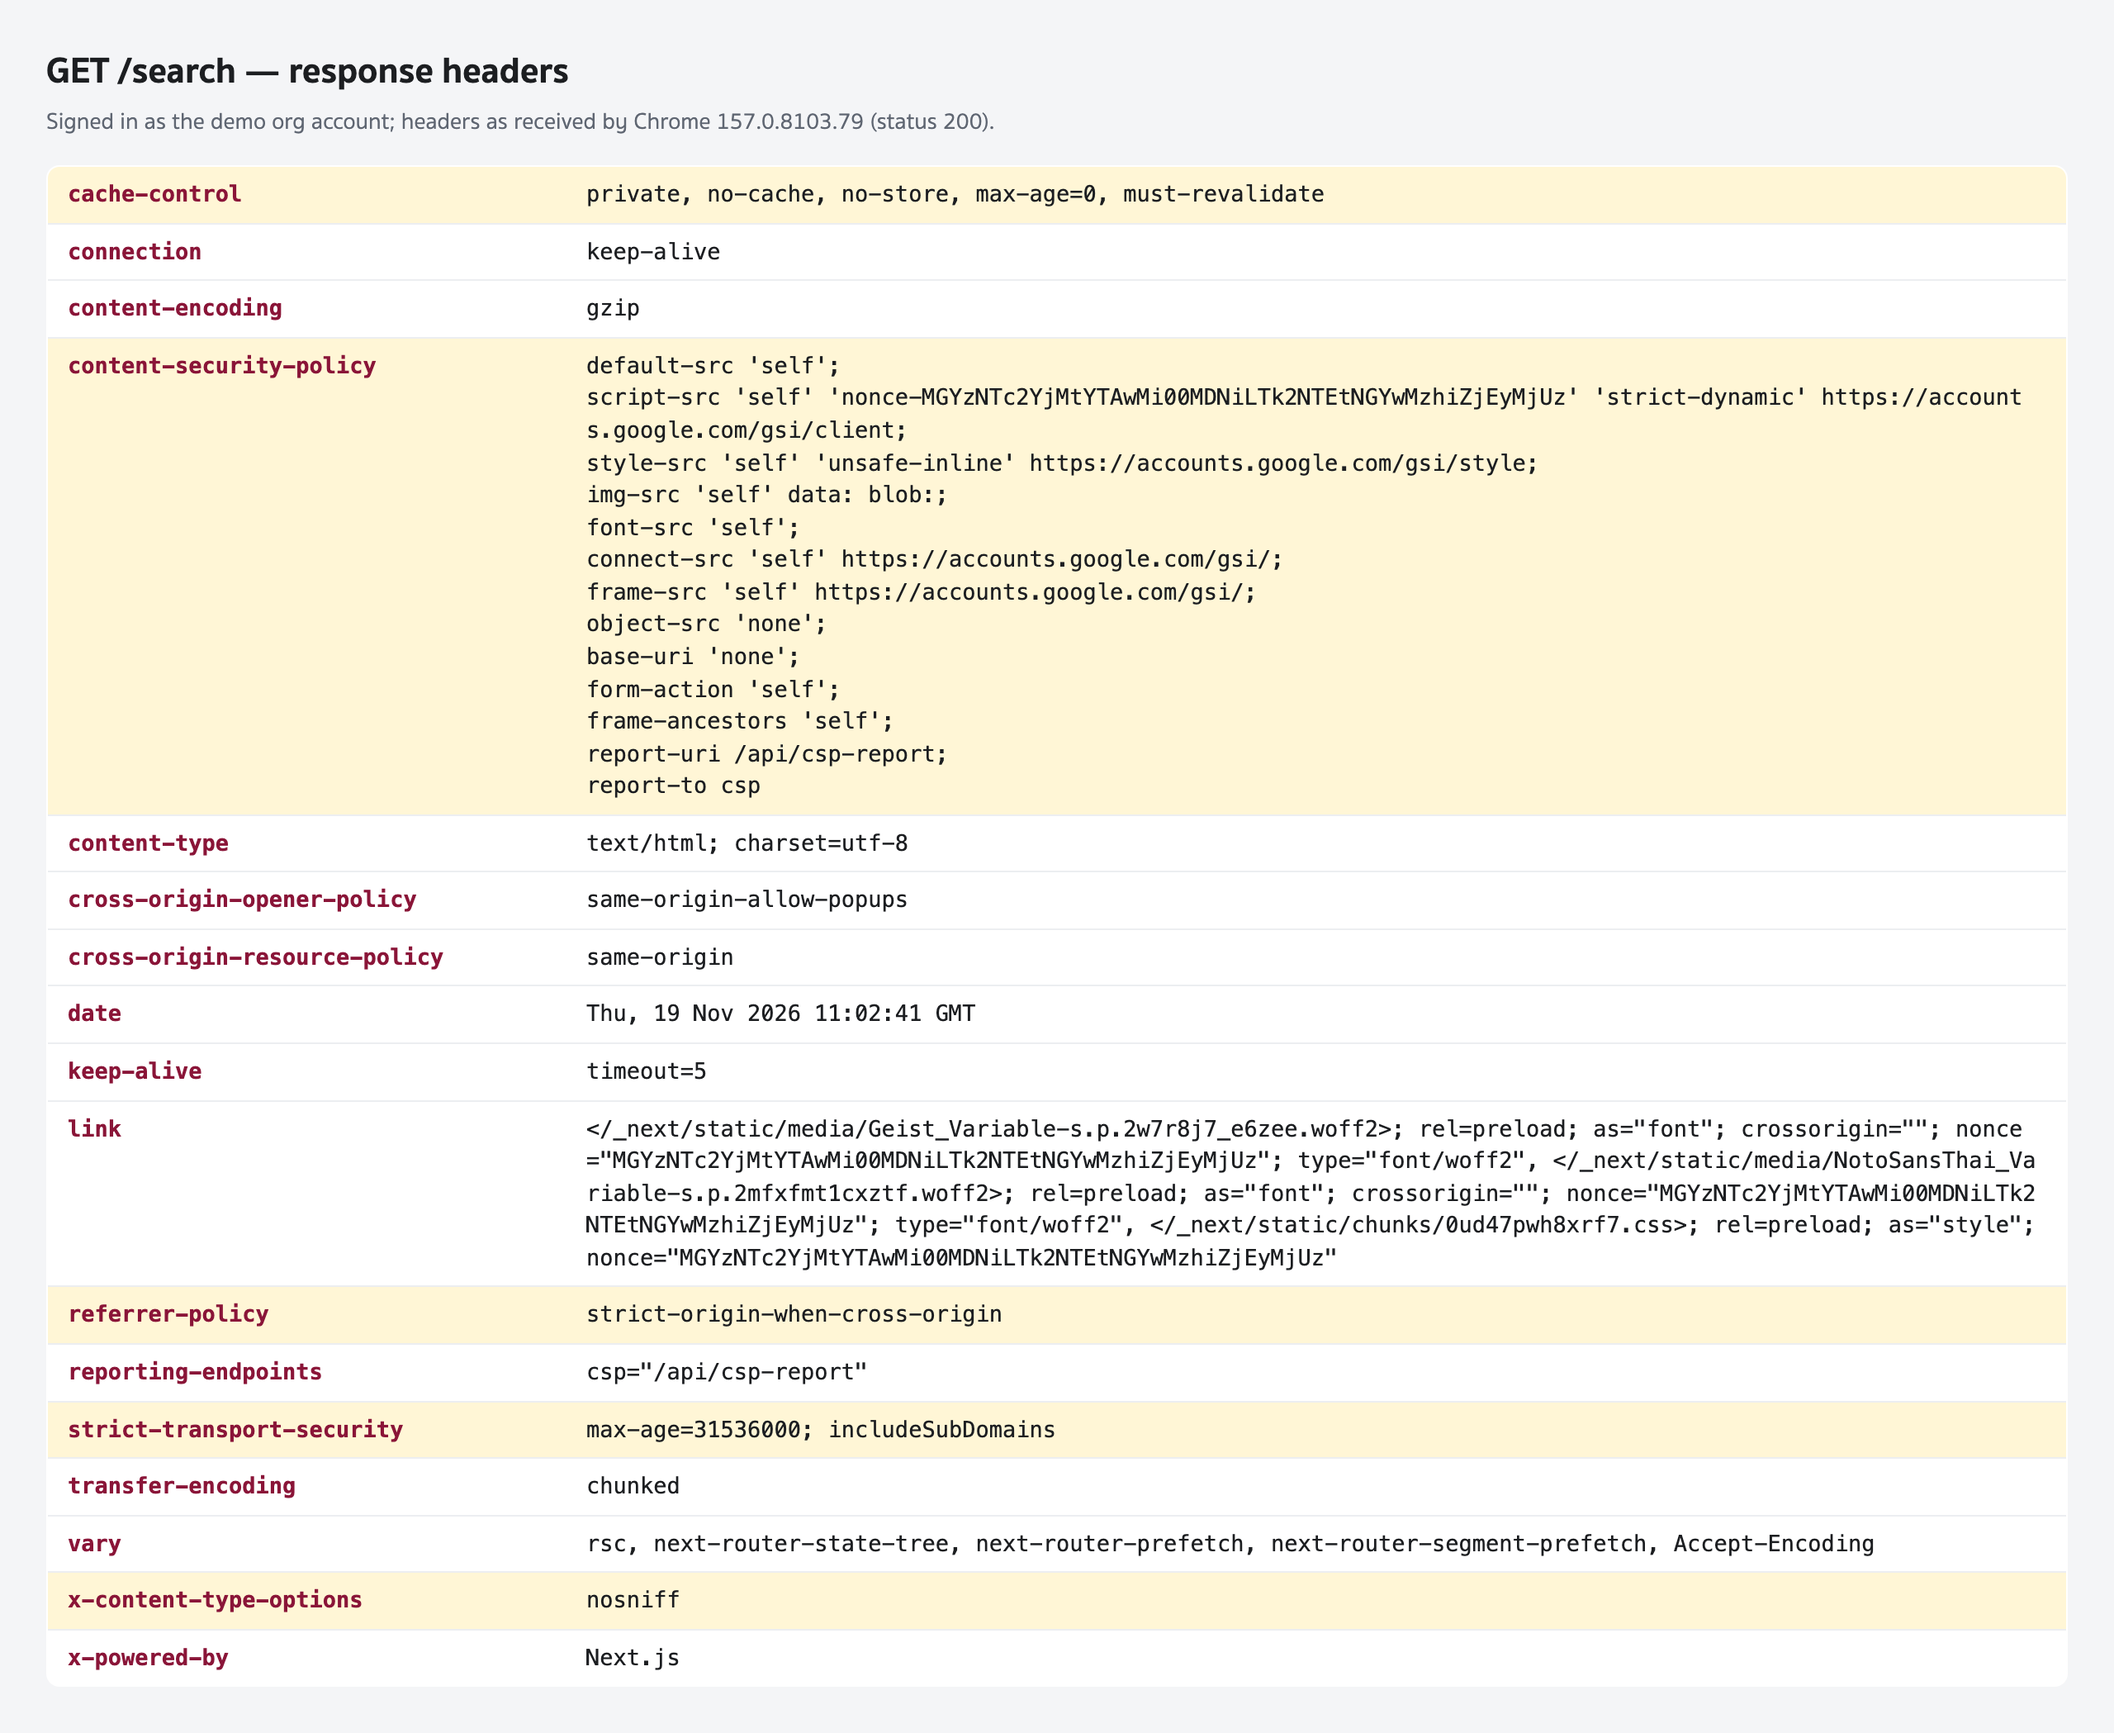
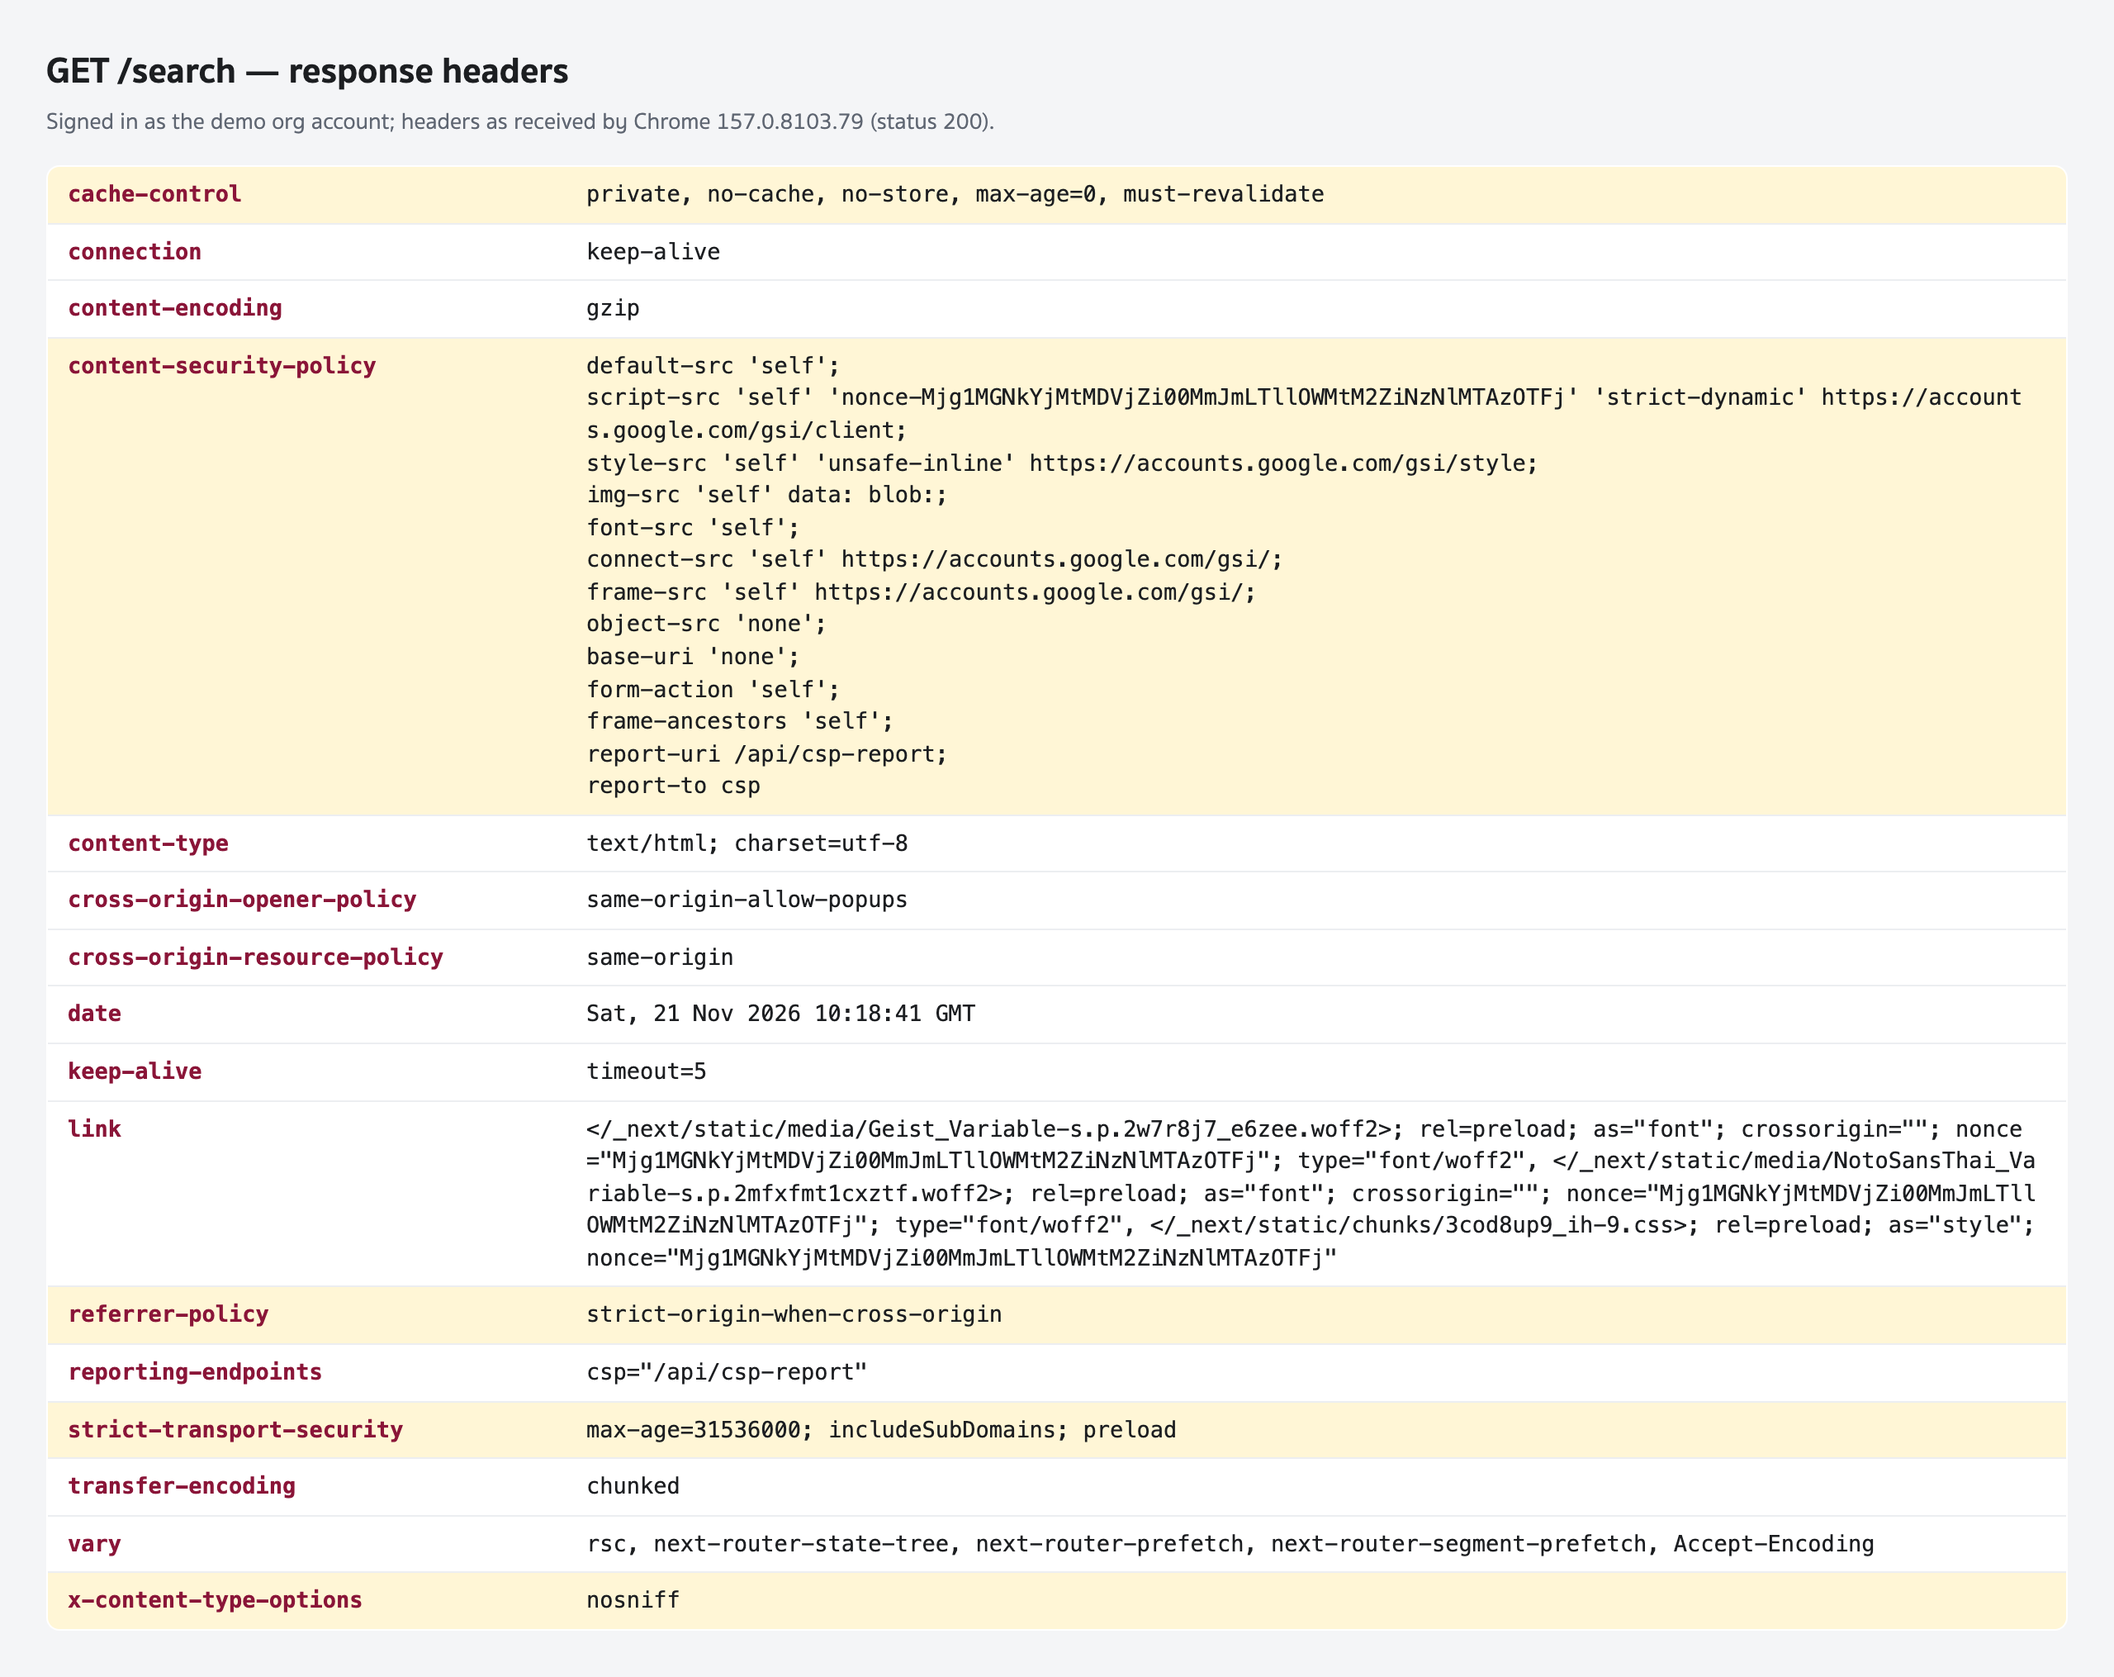
docs(security): current Level 3 numbers; evidence 01-03 retaken from main
- project-document.md: Level 3 is 68 of 72 applicable (20 N/A), and the
  test-methods row says Level 2 100%, Level 3 94%, reviewed 16-20 Nov.
- Evidence 01-03 retaken from an image built from main: 01 no longer
  shows x-powered-by. The 03 row explains Google's g_state cookie, and
  the observations note the sidebar bug fixed in #388.

Changed region(s): [[0.0, 0.031, 1.0, 0.9931]]

diff --git a/docs/security/evidence/README.md b/docs/security/evidence/README.md
@@ -18,9 +18,9 @@ Chrome received, shown as a table rather than the DevTools panel.
 
 | File | Criterion | What it proves |
 | --- | --- | --- |
-| [01-headers-search-page.png](screenshots/01-headers-search-page.png) | 13 HTTP headers | `/search` is served with a per-request nonce CSP (`'nonce-…' 'strict-dynamic'`, `object-src 'none'`, `base-uri 'none'`, `frame-ancestors 'self'`), `strict-transport-security`, `x-content-type-options: nosniff`, `referrer-policy`, and `cache-control: private, no-cache, no-store`. |
+| [01-headers-search-page.png](screenshots/01-headers-search-page.png) | 13 HTTP headers | `/search` is served with a per-request nonce CSP (`'nonce-…' 'strict-dynamic'`, `object-src 'none'`, `base-uri 'none'`, `frame-ancestors 'self'`), `strict-transport-security`, `x-content-type-options: nosniff`, `referrer-policy`, and `cache-control: private, no-cache, no-store`. Retaken 21 Nov 2026 from an image built from `main`: no `x-powered-by` header. |
 | [02-headers-api-auth-me.png](screenshots/02-headers-api-auth-me.png) | 13 HTTP headers | An API answer carrying account data is `cache-control: no-store` with `content-type: application/json; charset=utf-8`. |
-| [03-session-cookie-flags.png](screenshots/03-session-cookie-flags.png) | 9 Session cookie (ASVS 3.3) | The session cookie is `__Host-torr_session`, with HttpOnly ✓, Secure ✓, SameSite=Lax and Path=/ and no Domain. The `__Host-` prefix makes the browser enforce the last three. |
+| [03-session-cookie-flags.png](screenshots/03-session-cookie-flags.png) | 9 Session cookie (ASVS 3.3) | The session cookie is `__Host-torr_session`, with HttpOnly ✓, Secure ✓, SameSite=Lax and Path=/ and no Domain. The `__Host-` prefix makes the browser enforce the last three. The other TorFinder cookies (`__Host-torr_device`, `__Host-torr_gnonce`) have the same flags. `g_state` is set by Google's sign-in script in the browser, not by TorFinder; it holds only the one-tap prompt's state, no session. Retaken 21 Nov 2026. |
 | [04-cors-allowlist.png](screenshots/04-cors-allowlist.png) | 10 CORS | The backend allows exactly one origin (`enableCors({ origin: env.frontendOrigin })`). A request from `https://evil.example` is still answered with `Access-Control-Allow-Origin: http://localhost:3000`, which doesn't match, so the browser refuses to hand the response to the foreign page. |
 | [05-login-lockout.png](screenshots/05-login-lockout.png) | 18 Rate limiting | Repeated wrong passwords for one email lock it for 15 minutes with `ลองเข้าสู่ระบบผิดหลายครั้งเกินไป…`. The lock applies to unknown emails too, so it doesn't reveal which accounts exist (see 08: `unknown_account`). |
 | [06-idle-session-timeout.png](screenshots/06-idle-session-timeout.png) | 18 Session timeout | After the idle limit, opening `/matches` lands on `/login?next=%2Fmatches`. **Taken with `SESSION_IDLE_MINUTES=1` and 75 s idle** so it fits a screenshot; the default is 30 minutes. |
@@ -55,12 +55,11 @@ Chrome received, shown as a table rather than the DevTools panel.
 
 ## Observed while collecting
 
-- The company sidebar header always says "Arun Digital" (`frontend/src/components/layout/app-sidebar.tsx`), whichever company is signed in; visible in 12b. It's a display bug only: the data on the page is the signed-in company's own.
+- The company sidebar header always says "Arun Digital" (`frontend/src/components/layout/app-sidebar.tsx`), whichever company is signed in; visible in 12b. It was a display bug only: the data on the page is the signed-in company's own. **Fixed in #388:** the sidebar now shows the signed-in company's name.
 
-- `/search` still sends `x-powered-by: Next.js` (visible in 01), even though `next.config.ts`
+- `/search` sent `x-powered-by: Next.js` (visible in the first 01), even though `next.config.ts`
   sets `poweredByHeader: false`. **Fixed afterwards:** the Docker image didn't copy
   `next.config.ts` into its final stage, so `next start` ran on Next's defaults. The header
-  rules are compiled into `.next`, so only this setting was lost. Retake 01 from a rebuilt
-  image to show the header gone.
+  rules are compiled into `.next`, so only this setting was lost. 01 was retaken on 21 Nov from a rebuilt image: the header is gone.
 - `hello@datacraft.co.th` (README, "Demo accounts") is not in a freshly seeded database. Shot 05
   locked that address anyway, which shows the lock works for unknown emails.

diff --git a/docs/security/project-document.md b/docs/security/project-document.md
@@ -62,9 +62,9 @@ We reviewed TorFinder against **OWASP ASVS 5.0**, all of Level 1 and all of Leve
 | --- | --- | --- | --- | --- | --- | --- | --- |
 | Level 1 | 70 | 56 | 0 | 0 | 12 | 2 (TLS, set by hosting) | [asvs-l1.md](./asvs-l1.md) |
 | Level 2 | 183 | 125 | 0 | 0 | 58 | 0 | [asvs-l2.md](./asvs-l2.md) |
-| Level 3 (triage, not claimed) | 92 | 67 | 0 | 4 | 21 | 0 | [asvs-l3.md](./asvs-l3.md) |
+| Level 3 (triage, not claimed) | 92 | 68 | 0 | 4 | 20 | 0 | [asvs-l3.md](./asvs-l3.md) |
 
-Level 1 has no Fail and no Partial. At Level 2, all 125 requirements that apply pass (100%), the last seven with an opt-in hardening setup for production ([hardening.md](../operations/hardening.md)). Level 3 is not a target; the triage on 19 Nov records which of its controls fit TorFinder, and 67 of the 71 that apply pass (94%), with no Partial left; the four still open need a production domain or hardware and are listed as accepted risks, including passkeys for staff ([passkeys.md](./passkeys.md)), a second admin's approval to grant or remove the admin role, a lockout email to the account's owner, an admin "send reset link" action, and documented limits, data retention and secret rotation ([limits-and-retention.md](../operations/limits-and-retention.md)). Every Partial and Not done item names its gap in the report.
+Level 1 has no Fail and no Partial. At Level 2, all 125 requirements that apply pass (100%), the last seven with an opt-in hardening setup for production ([hardening.md](../operations/hardening.md)). Level 3 is not a target; the triage on 19 Nov records which of its controls fit TorFinder, and 68 of the 72 that apply pass (94%), with no Partial left; the four still open need a production domain or hardware and are listed as accepted risks, including passkeys for staff ([passkeys.md](./passkeys.md)), a second admin's approval to grant or remove the admin role, a lockout email to the account's owner, an admin "send reset link" action, and documented limits, data retention and secret rotation ([limits-and-retention.md](../operations/limits-and-retention.md)). Every Partial and Not done item names its gap in the report.
 
 ### 3.1 Graded security features
 
@@ -184,7 +184,7 @@ Each principle is mapped to where the code applies it **[C3]**. The full table i
 
 | Step | Tool | When | Result | Report |
 | --- | --- | --- | --- | --- |
-| Source review against ASVS | Manual, by requirement | 16–18 Nov | L1: 0 Fail; L2: 84% Pass | [asvs-l1.md](./asvs-l1.md), [asvs-l2.md](./asvs-l2.md) |
+| Source review against ASVS | Manual, by requirement | 16–20 Nov | L1: 0 Fail; L2: 100% Pass; L3 (triage): 94% Pass | [asvs-l1.md](./asvs-l1.md), [asvs-l2.md](./asvs-l2.md) |
 | Threat modeling | STRIDE | 16 Nov, revised 18 Nov | 36 threats, 36 mitigated | [threat-model.md](./threat-model.md) |
 | SAST **[C14]** | CodeQL 2.27.4 (on every PR), Semgrep 1.185.0 | 17 Nov | 44 findings: 34 real and fixed, 10 false positives explained; 0 open after the fixes | [sast-report.md](./sast-report.md) |
 | DAST **[C15]** | OWASP ZAP 2.16.1, baseline and signed-in active scan (5,573 requests) | 17 Nov | No working injection, XSS or traversal; 1 real finding (missing script CSP on some 404s), fixed | [dast-report.md](./dast-report.md) |
